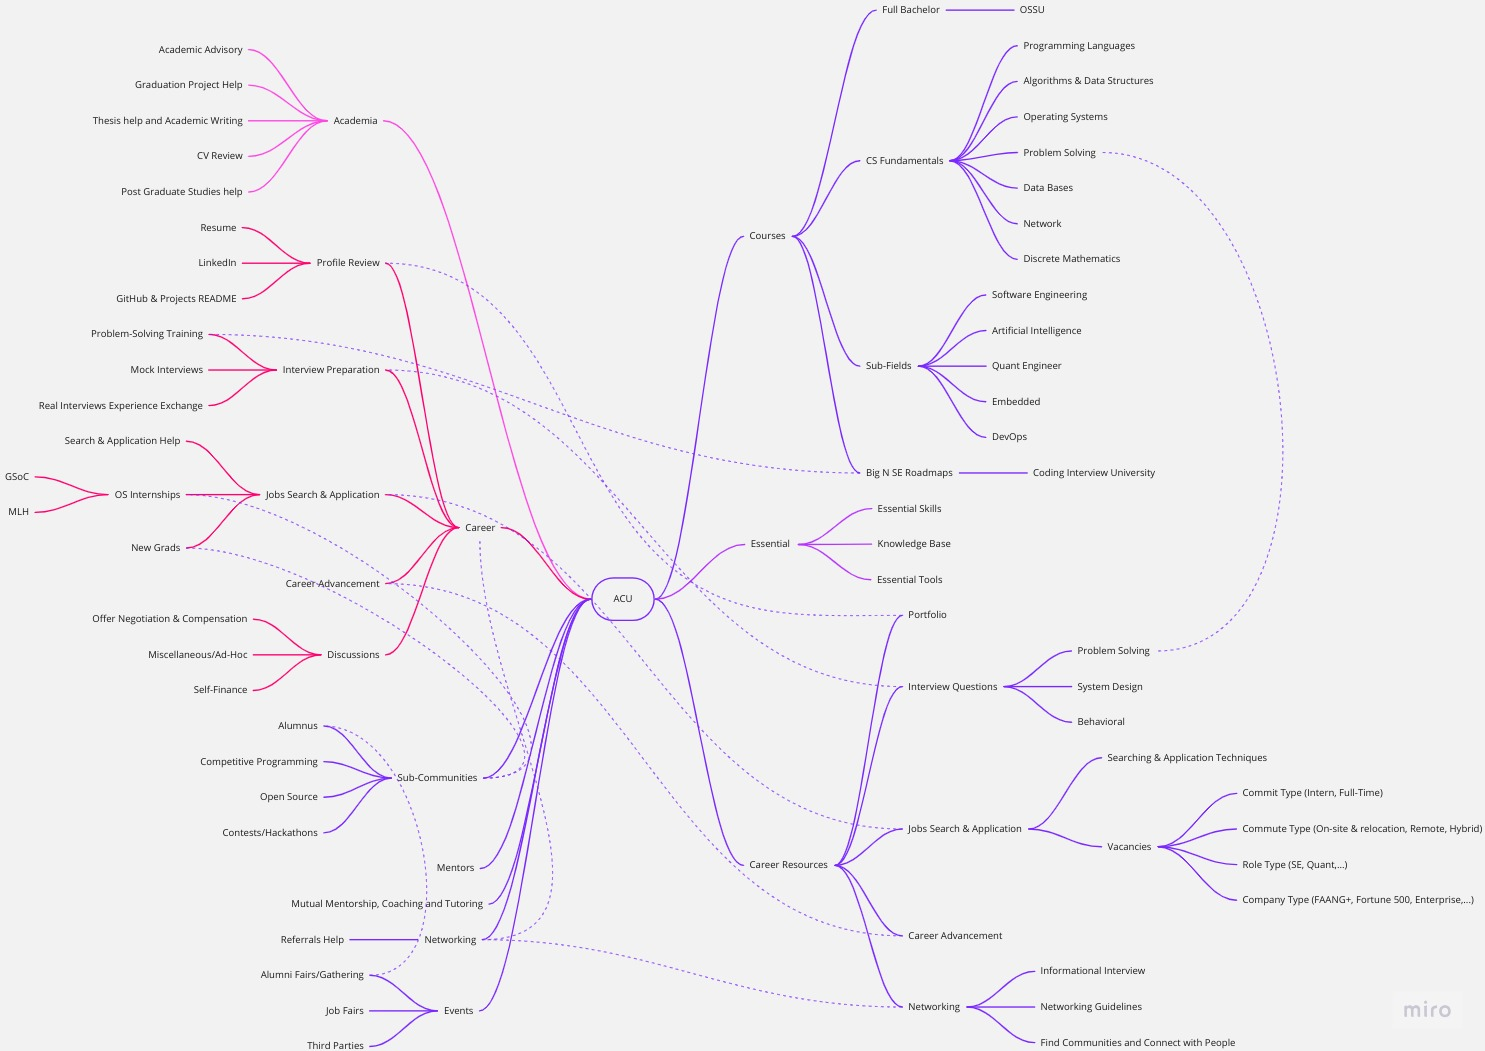
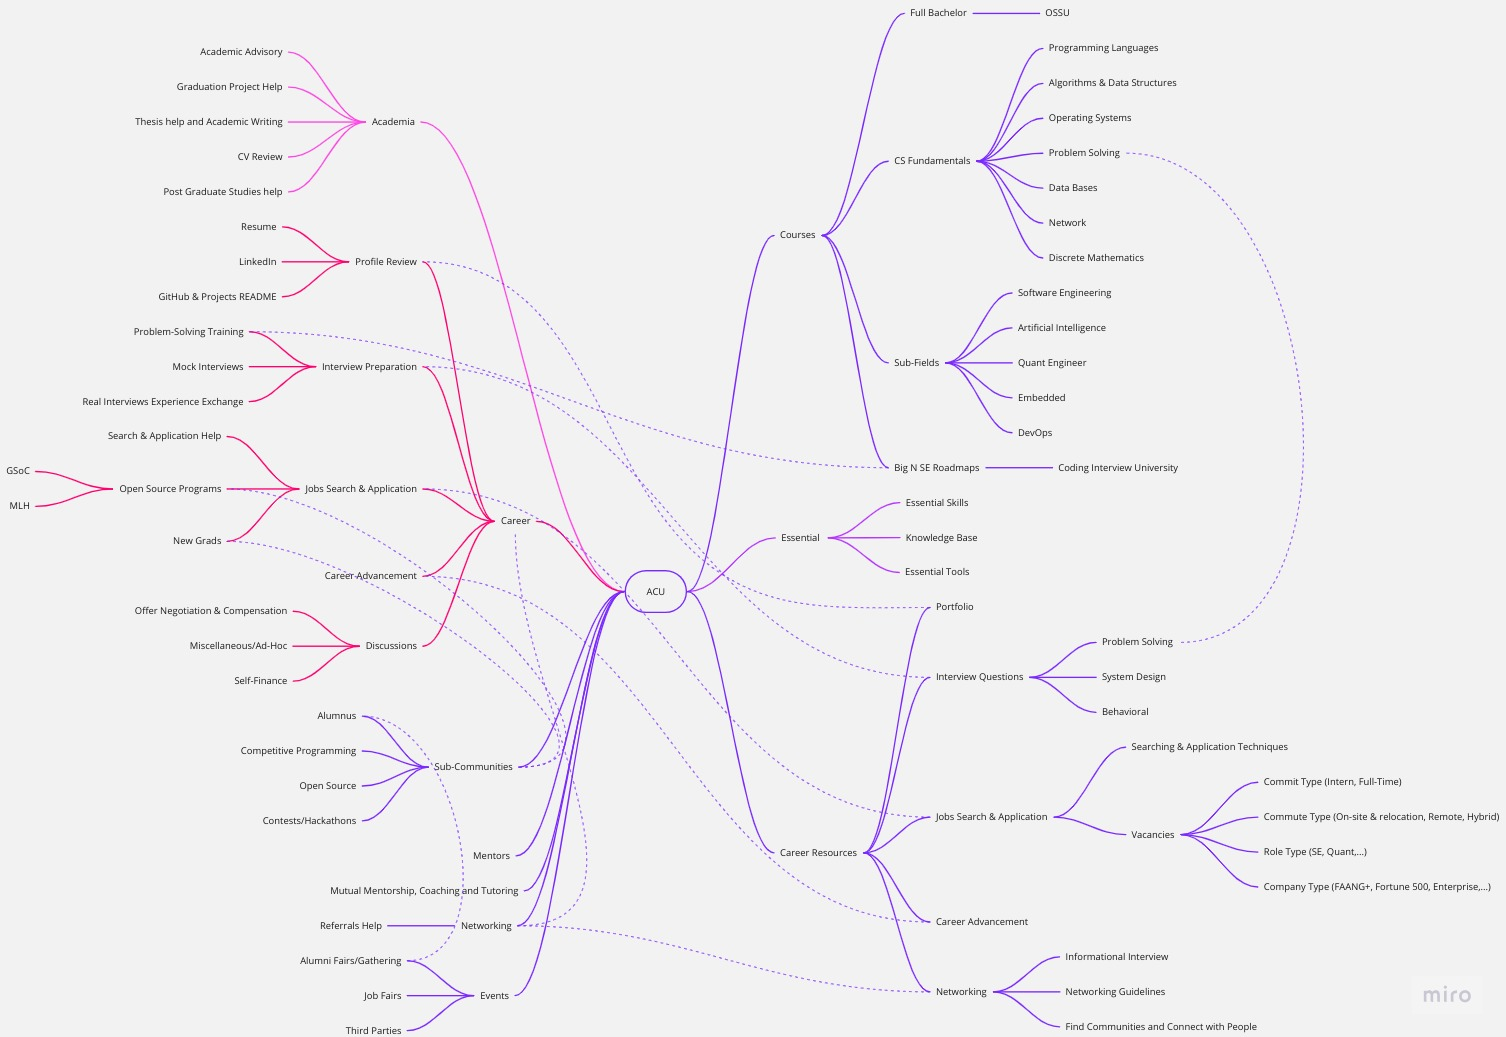
Fix: Open Source Program

diff --git a/README-Explanation.md b/README-Explanation.md
@@ -163,7 +163,7 @@ Academia is equivalent to Academic Advisory in universities where a person (usua
 2. Interview Preparation: Resources (stored in [Career Resources](#career-resources) in Interview Questions) and personal help for all companies and interview types, ranging from problem-solving training, mock interviews or real interviews, experience exchange, and interview resources.
 3. Jobs Search & Application: Tailored help, tips and techniques in job searching & applying based on your preferences (check them from vacancies in [Career Resources](#career-resources)).
    1. Search & Application Help: A member asks a direct question or can let other experienced members infer the problem and the question themselves (e.g., the member didn't receive any interview chances for a month which might indicate a bad resume)
-   2. OS Internships (One of ACU special communities): Dedicated community for open source paid internships hunting. (Explained in [Sub-Communities](#sub-communities))
+   2. Open Source Programs: Dedicated community for open source paid internships hunting. (Explained in [Sub-Communities](#sub-communities))
    3. New Grads (One of ACU special communities): Dedicated community for jobs hunts. (Explained in [Sub-Communities])
 4. Discussions: Career topics of interest such as Networking, Job Application, Compensation and Offer Negotiation, Miscellaneous Career topics, Self-finance.
 5. Career advancement: level up in company, learn more, and earn more.
@@ -173,7 +173,7 @@ Academia is equivalent to Academic Advisory in universities where a person (usua
 
 * ACU special communities below intentionally do not include or explain what makes them special. You will be briefed about them only if you are a member.
 
-1. OS Internships (One of ACU special communities): Special group dedicated to discussing, mutually searching and applying to Open Source Paid Internships (Mainly Google Summer of Code (GSoC) and MLH).
+1. Open Source Programs: Special group dedicated to discussing, mutually searching and applying to Open Source Paid Internships (Mainly Google Summer of Code (GSoC) and MLH).
 2. New Grads (One of ACU special communities): Special group dedicated to Jobs Search & Application by teaming with other members who are targeting the same companies.
    1. They resume-review, practice, prepare, search and apply together. This makes job hunting more tailored and efficient.
    2. Sometimes you can get help from older members who applied for the same companies and roles.

diff --git a/README.md b/README.md
@@ -204,7 +204,7 @@ Currently, no dedicated channels for it, but most people will answer you. For ex
 1. life-after-grad channel: For @Students to discuss "Career" except "Problem Solving Training".
 2. *SPECIAL CATEGORY*: For @*Special Roles* to discuss "Career Advancement" and "Discussions".
 3. SUB-COMMUNITIES:
-   1. OS Internships (Name of Community):
+   1. Open Source Programs (Name of Community):
       1. general-osi channel.
       2. vacancies-osi channel.
    2. New Grads (Name of Community): CAREER Category.
@@ -277,9 +277,9 @@ Third-party events are available only on the Arabic ACU Server in recommended ev
 9. STACKS & TECHNOLOGIES: For cs-minors stacks but currently has SE-stacks.
     1. general-stacks-and-technologies: Mainly to ask about multiple domains at once and to discuss stacks of low traffic (do not currently have dedicated channel).
 10. SUB-COMMUNITIES: For Communities that do not require more than 2 channels for discussions.
-    1. OS Internships (Name of Community).
-       1. general-osi: Topicless discussions about Open Source Internships like "How to prepare".
-       2. vacancies-osi: Forum for storing each company or internship and its discussion. (E.g., What is required? Who is applying? Where to find X? How to solve Problem Y?)
+    1. Open Source Programs (Name of Community).
+       1. general-osp: Topic-less discussions about Open Source Internships like "How to prepare".
+       2. gsoc: General discussions about Google Summer of Code.
 11. CAREER: For career-specific preparation topics. For general discussions (E.g., Offer negotiation), go to life-after-grad or *general* (for *specific roles*).
     1. ps-grinding: Accelerate studying problem-solving by studying for others to increase commitment level. Similar to mock interviews, except that each pair of people decides their terms (E.g., no camera, no voice communication...). In other words, it is half-mock-interviews.
     2. mock-interviews: Schedule mock-interviews between @Trusted only. Ask for a random mock or prepare before an interview (mock all day).
